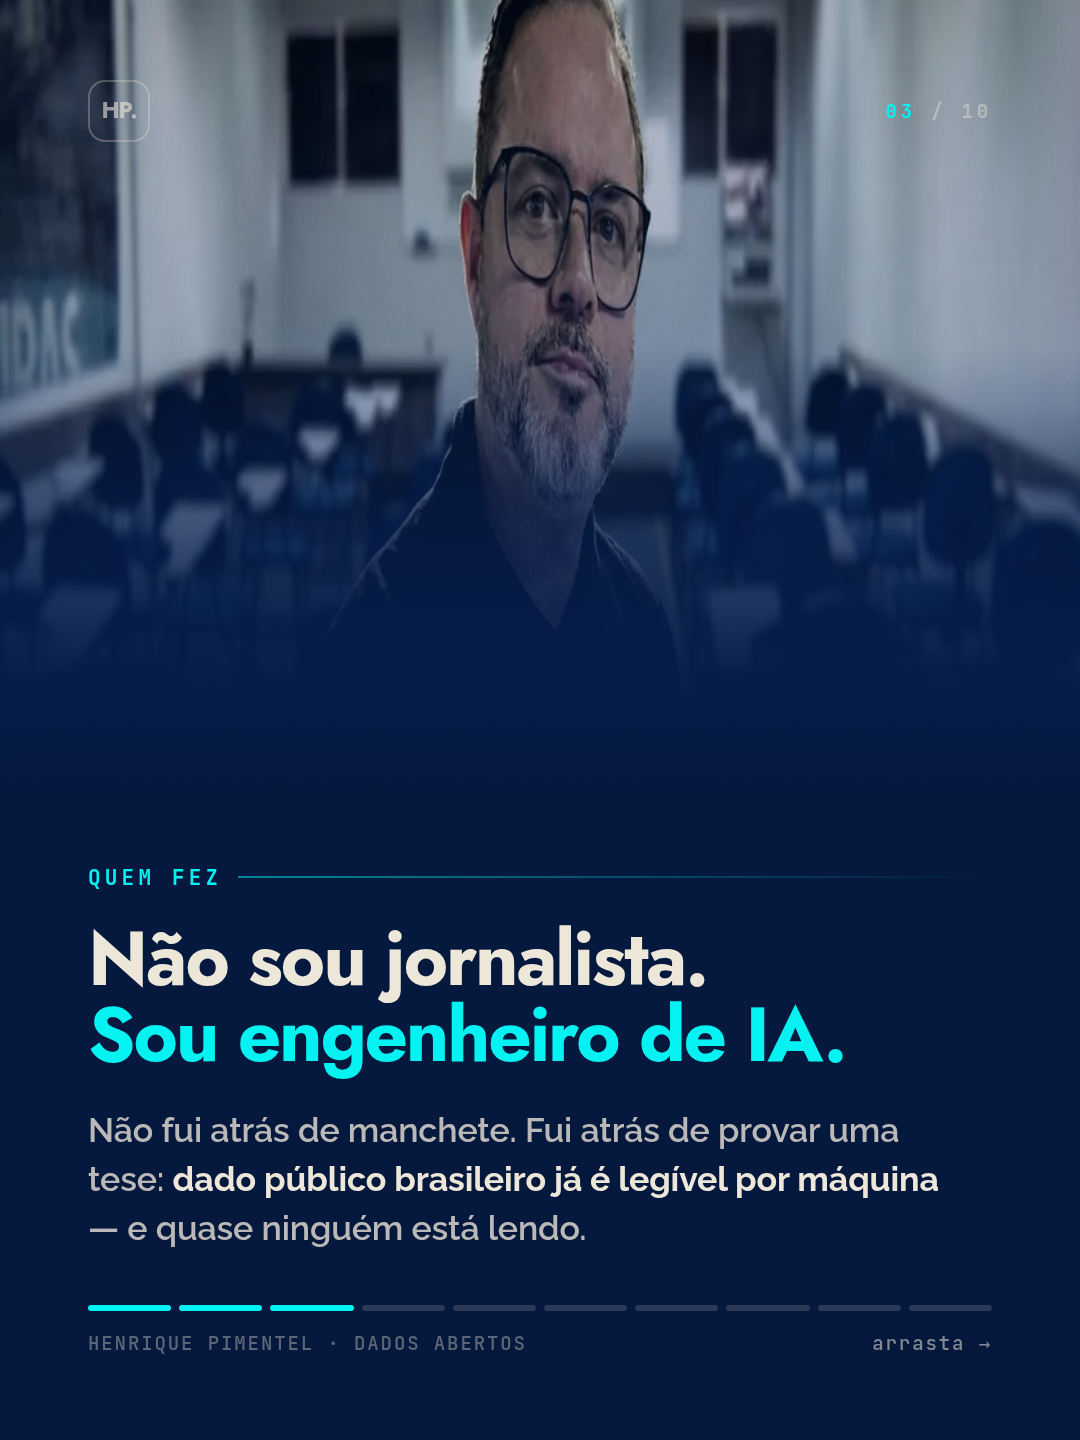
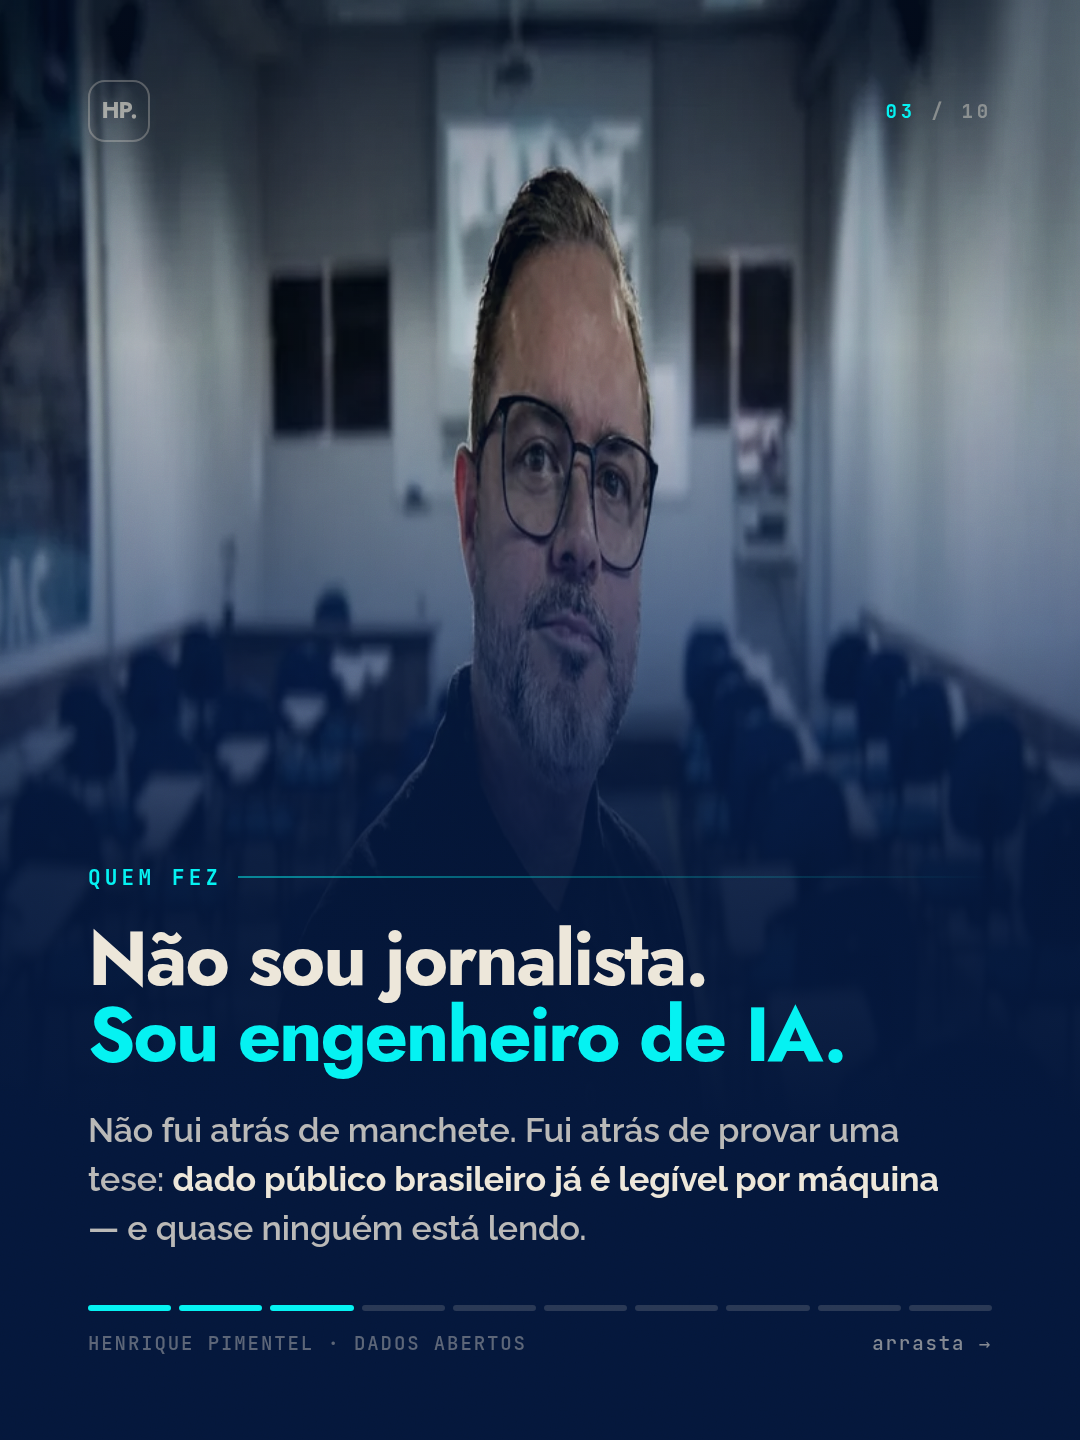
Corrige o enquadramento do retrato no slide 3
A faixa da foto tinha sido dimensionada pela proporcao de
foto-henrique.jpeg (paisagem 1376x768), mas o arquivo embutido e
foto-henrique.webp (retrato 840x1050). O descasamento fechava o recorte
e cortava o topo da cabeca.

Passa a full-bleed com background-size cover — o recorte lateral cai
para 36px de cada lado — e o scrim vira gradiente progressivo, abrindo
espaco legivel pro texto na metade de baixo sem apagar a foto.

Claude-Session: https://claude.ai/code/session_01GV9QavBhjPc4BRbTxoTbpC

diff --git a/design/carrosseis/ranking-deputados-pe/carrossel.html b/design/carrosseis/ranking-deputados-pe/carrossel.html
@@ -334,12 +334,19 @@ h1 .clay{color:var(--clay)}
   font-family:var(--f-support);font-weight:600;font-size:28px;color:var(--cream)}
 
 /* ---------- Slide com retrato ---------- */
-.slide.photo .layer.broll{inset:-46px 0 auto 0;height:756px;opacity:1;
-  background-position:center 30%;filter:saturate(.5) contrast(1.1) brightness(1.02);
-  -webkit-mask-image:linear-gradient(to bottom,#000 0,#000 52%,transparent 100%);
-  mask-image:linear-gradient(to bottom,#000 0,#000 52%,transparent 100%)}
+/* foto-henrique.webp e retrato 840x1050: entra full-bleed (recorte lateral de
+   36px de cada lado) com scrim progressivo abrindo espaco pro texto embaixo. */
+.slide.photo .layer.broll{inset:0;height:auto;opacity:1;
+  background-size:cover;background-position:center top;background-repeat:no-repeat;
+  filter:saturate(.55) contrast(1.06);
+  -webkit-mask-image:none;mask-image:none}
 .slide.photo .layer.wash{background:
-  linear-gradient(180deg, rgba(4,23,59,.30) 0%, rgba(7,35,89,.40) 28%, rgba(4,23,59,.95) 56%, var(--navy-deep) 100%)}
+  linear-gradient(180deg,
+    rgba(4,23,59,.44) 0%,
+    rgba(4,23,59,.24) 24%,
+    rgba(7,35,89,.60) 44%,
+    rgba(4,23,59,.93) 60%,
+    var(--navy-deep) 78%)}
 
 /* ---------- Rodapé ---------- */
 .foot{position:relative;z-index:2;flex:0 0 auto;display:flex;flex-direction:column;gap:20px}

diff --git a/design/carrosseis/ranking-deputados-pe/README.md b/design/carrosseis/ranking-deputados-pe/README.md
@@ -84,9 +84,15 @@ proposições que citam PE, sem publicar a escala.
 ## b-roll e retrato
 
 Slides beat: **1, 3, 8 e 10**. O slide 3 já vem com o retrato de `public/foto-henrique.webp`
-embutido em base64 (banda superior de 756px, máscara de dissolução, dessaturado e escurecido para
-o texto respirar). Trate-o como o slide "cara do autor" — trocar por uma foto melhor é o upgrade de
-maior retorno da peça.
+embutido em base64, full-bleed com scrim progressivo abrindo espaço pro texto embaixo.
+Trate-o como o slide "cara do autor" — trocar por uma foto melhor é o upgrade de maior retorno
+da peça.
+
+⚠ **Atenção à proporção ao trocar a foto.** `foto-henrique.webp` é retrato **840×1050**;
+`foto-henrique.jpeg` é um recorte diferente, paisagem **1376×768**. Ao usar uma foto nova, confira
+a proporção real antes de ajustar o enquadramento — dimensionar pelo arquivo errado espreme a
+imagem. Retrato (4:5 ou mais alto) funciona full-bleed; paisagem pede faixa no topo com máscara
+de dissolução.
 
 Os slides 1, 8 e 10 têm a camada `.layer.broll` pronta e vazia: sem imagem, o fundo generativo
 (gradiente + malha + motivo da ponte + grão) segura sozinho. Para usar foto:
